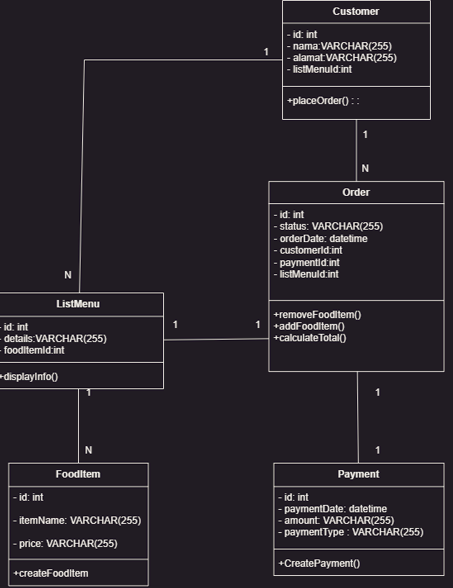
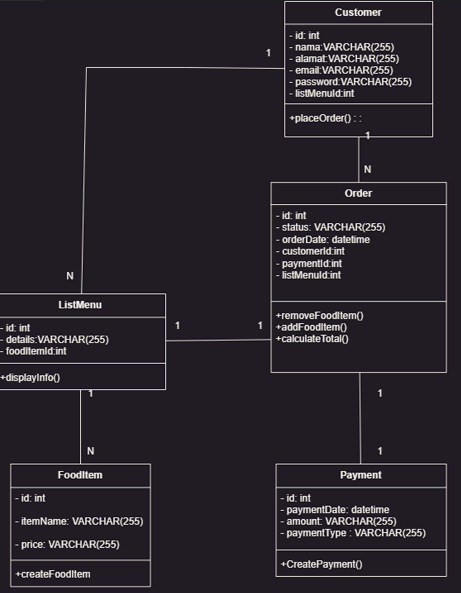
benerin controller di updatenya sama classdiagram sama erd

Changed region(s): [[0.0, 0.0, 0.989, 1.0]]

diff --git a/controller/orderController.js b/controller/orderController.js
@@ -4,15 +4,18 @@ import Customer from "../models/customerModel.js"
 import Payment from "../models/paymentModel.js"
 import ListMenu from "../models/listMenuModel.js"
 export const createOrder = async (req, res) => {
-  const { nama, alamat } = req.body;
+  const { status, orderDate, customerId, paymentId, listMenuId } = req.body;
   try {
     const order = await Order.create({
-      nama: nama,
-      alamat: alamat
+        status:status,
+        orderDate:orderDate,
+        customerId:customerId,
+        paymentId:paymentId,
+        listMenuId:listMenuId,
     })
     res.status(201).json({ order })
   } catch (err) {
-    res.status(500).json({ error: err, message: "Error creating order" })
+    res.status(500).json({ error: err.message, message: "Error creating order" })
   }
 }
 
@@ -71,19 +74,30 @@ export const getOrderById = async (req, res) => {
 
 export const updateOrder = async (req, res) => {
   const { id } = req.params;
-  const { nama, alamat } = req.body;
+  const { status, orderDate, customerId, paymentId, listMenuId  } = req.body;
   try {
     const order = await Order.findByPk(id);
     if (order) {
-      order.nama = nama;
-      order.alamat = alamat;
-      await order.save();
-      res.status(200).json(order);
+
+      await order.update({
+        status:status,
+        orderDate:orderDate,
+        customerId:customerId,
+        paymentId:paymentId,
+        listMenuId:listMenuId,
+      })
+      // order.status = status;
+      // order.orderDate = orderDate;
+      // order.customerId = customerId;
+      // order.paymentId = paymentId;
+      // order.listMenuId = listMenuId;
+      // await order.save();
+      res.status(200).json({message:"Order updated successfully",order});
     } else {
       res.status(404).json({ message: "Order not found" });
     }
   } catch (error) {
-    res.status(500).json({ message: "Error updating order", error });
+    res.status(500).json({ message: "Error updating order", error:error.message });
   }
 }
 

diff --git a/controller/customerController.js b/controller/customerController.js
@@ -1,19 +1,19 @@
 
 import Customer from "../models/customerModel.js"
 
-export const createCustomer = async (req, res) => {
-    const {nama,alamat,email} = req.body
-    try{
-        const customer = await Customer.create({
-            nama:nama,
-            alamat:alamat,
-            email:email
-        })
-        res.status(201).json({customer})
-    } catch(err){
-        res.status(500).json({error:err, message:"Error creating customer"})
-    }
-}
+// export const createCustomer = async (req, res) => {
+//     const {nama,alamat,email} = req.body
+//     try{
+//         const customer = await Customer.create({
+//             nama:nama,
+//             alamat:alamat,
+//             email:email
+//         })
+//         res.status(201).json({customer})
+//     } catch(err){
+//         res.status(500).json({error:err, message:"Error creating customer"})
+//     }
+// }
 
 export const getAllCustomers = async (req, res) => {
     try{
@@ -45,15 +45,18 @@ export const updateCustomer = async (req, res) => {
     try {
       const customer = await Customer.findByPk(id);
       if (customer) {
-        customer.nama = nama;
-        customer.alamat = alamat;
-        await customer.save();
-        res.status(200).json(customer);
+        
+      await customer.update({
+        nama:nama,
+        alamat:alamat,
+      }) 
+      
+        res.status(200).json({message:"Customer updated successfully",customer});
       } else {
         res.status(404).json({ message: "Customer not found" });
       }
     } catch (error) {
-      res.status(500).json({ message: "Error updating customer", error });
+      res.status(500).json({ message: "Error updating customer", error:error.message });
     }
 }
 

diff --git a/models/association.js b/models/association.js
@@ -46,39 +46,51 @@ Payment.hasOne(Order, {
 // Setiap ListMenu memiliki satu Order
 ListMenu.hasOne(Order,{
     foreignKey:'listMenuId',
-    as:'order'
+    as:'order',
+    onDelete: 'CASCADE',
+    onUpdate: 'CASCADE'
 })
 
 // Relasi antara Order dan ListMenu (One-to-One)
 // Setiap Order terkait dengan satu ListMenu
 Order.belongsTo(ListMenu, {
     foreignKey: 'listMenuId',
-    as: 'listmenu'
+    as: 'listmenu',
+    onDelete: 'CASCADE',
+    onUpdate: 'CASCADE'
 })
 
 // Relasi antara FoodItem dan ListMenu (One-to-Many)
 // Satu FoodItem dapat memiliki banyak ListMenu
 FoodItem.hasMany(ListMenu, {
     foreignKey: 'foodItemId',
-    as: 'foodItem'
+    as: 'foodItem',
+    onDelete: 'CASCADE',
+    onUpdate: 'CASCADE'
 })
 
 // Setiap ListMenu terkait dengan satu FoodItem
 ListMenu.belongsTo(FoodItem, {
     foreignKey: 'foodItemId',
-    as: 'foodItem'
+    as: 'foodItem',
+    onDelete: 'CASCADE',
+    onUpdate: 'CASCADE'
 })
 
 // Relasi antara Customer dan ListMenu (One-to-One)
 // Satu Customer dapat memiliki satu ListMenu
 Customer.hasOne(ListMenu, {
     foreignKey: 'customerId',  // Foreign key di tabel ListMenu
-    as: 'listmenu'
+    as: 'listmenu',
+    onDelete: 'CASCADE',
+    onUpdate: 'CASCADE'
 });
 
 // Setiap ListMenu terkait dengan satu Customer
 ListMenu.belongsTo(Customer, {
     foreignKey: 'customerId',  // Foreign key di tabel ListMenu 
-    as: 'customer'
+    as: 'customer',
+    onDelete: 'CASCADE',
+    onUpdate: 'CASCADE'
 });
 

diff --git a/controller/paymentController.js b/controller/paymentController.js
@@ -1,22 +1,23 @@
 import Payment from "../models/paymentModel.js";
 
 export const createPayment = async (req, res) => {
-  const { itemName, price } = req.body;
+  const { paymentDate, amount, paymentType } = req.body;
   try {
     const payment = await Payment.create({
-      itemName: itemName,
-      price: price
+      paymentDate: paymentDate,
+      amount: amount,
+      paymentType: paymentType
     })
-    res.status(201).json(payment)
+    res.status(201).json({message:"Payment created successfully",payment})
   } catch (err) {
-    res.status(500).json({ error: err, message: "Couldn't create" })
+    res.status(500).json({ error: err, message: "Couldn't create payment" })
   }
 }
 
 export const getAllPayments = async (req, res) => {
   try {
     const payments = await Payment.findAll()
-    res.status(200).json(payments)
+    res.status(200).json({message:"Payment fetched successfully",payments})
   } catch (err) {
     res.status(500).json({ error: err, message: "Couldn't find any payments" })
   }

diff --git a/routes/customerRoute.js b/routes/customerRoute.js
@@ -1,9 +1,9 @@
 import express from "express"
-import { createCustomer , getAllCustomers, getCustomerById,updateCustomer,deleteCustomer} from "../controller/customerController.js"
+import { getAllCustomers, getCustomerById,updateCustomer,deleteCustomer} from "../controller/customerController.js"
 import { verifyToken } from "../middleware/authMiddleware.js"
 const customerRoute = express.Router();
 
-customerRoute.post('/customer/create', createCustomer)
+// customerRoute.post('/customer/create', createCustomer)
 customerRoute.get('/customer/findall', verifyToken, getAllCustomers)
 customerRoute.get('/customer/findbyid/:id',verifyToken, getCustomerById)
 customerRoute.put('/customer/update/:id', updateCustomer)
